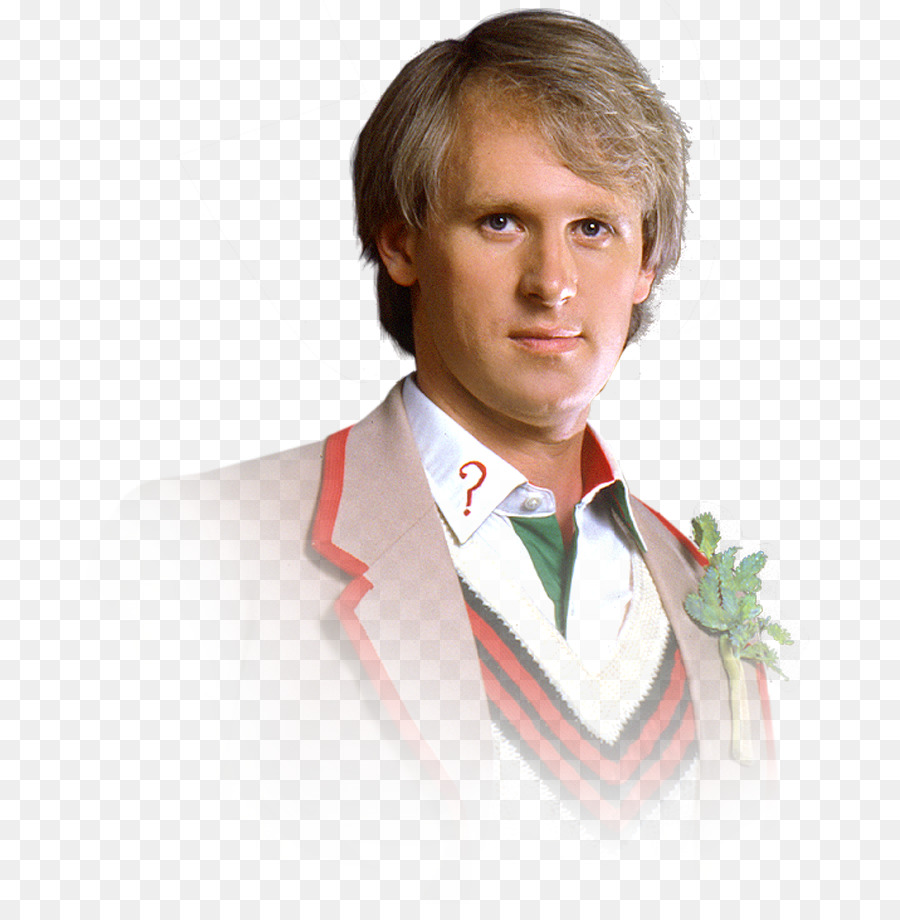
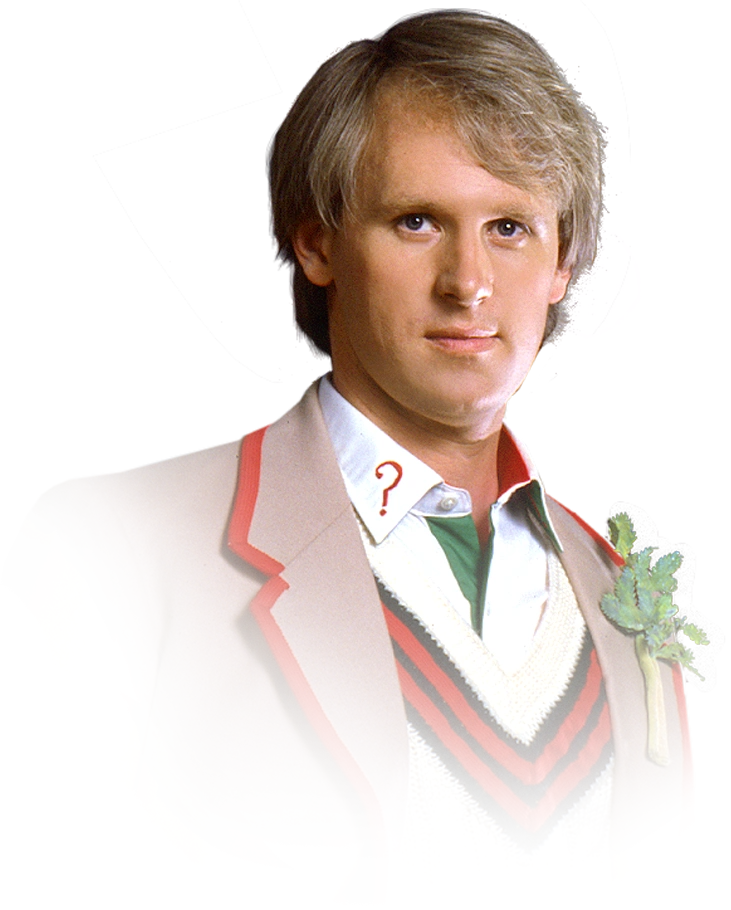
Fixed images

Changed region(s): [[0.2107, 0.0, 0.9631, 0.8923]]

diff --git a/client/index.html b/client/index.html
@@ -24,8 +24,8 @@
         </div>
       </div>
       <div class="row h-100 justify-content-center align-items-center">
-        <!-- Buttons to select the doctor they want to view -->
         <div class="row">
+          <!-- Carousel of all the Doctors -->
           <div id="DoctorCarousel" class="carousel slide" data-ride="carousel">
             <!-- Carousel items, images of each doctor -->
             <div class="carousel-inner d-flex align-items-center">
@@ -102,7 +102,7 @@
               <div id="eighthDoctorCarousel" class="carousel-item">
                 <img
                   class="d-block w-50 h-50 mx-auto custom-image"
-                  src="assests/images/Eigth-doctor.png"
+                  src="assests/images/Eighth-doctor.png"
                   alt="The eighth doctor"
                 />
                 <div class="carousel-caption">
@@ -302,6 +302,7 @@
               <span class="visually-hidden">Next</span>
             </button>
           </div>
+          <!-- End of carousel -->
         </div>
       </div>
     </div>
